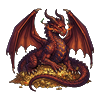
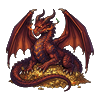
feat(art): monsters mirrored in the image files, not in CSS
- style.json kinds.monster.mirror → postprocess flips the keyed sprite; all 8 base monsters reprocessed
- the Monad mascots flipped once as well so both themes face the hero
- CSS scaleX(-1) on the tile, hover and battle arena removed

diff --git a/fe/src/components/game/BattleReportModal.vue b/fe/src/components/game/BattleReportModal.vue
@@ -1731,15 +1731,9 @@ const potentialRewardTip = computed(() => {
   filter: brightness(1.15) drop-shadow(0 2px 8px rgba(200, 180, 160, 0.4));
 }
 
-/* the monster faces the hero: mirror the whole wrap so the sprite animations keep their own transforms */
-.monster-side .combatant-sprite-wrap {
-  transform: scaleX(-1);
-}
-
 .monster-emoji-large {
   font-size: 5rem;
   position: relative;
-  transform: scaleX(-1); /* undo the wrap mirror for text */
 }
 
 /* Character entrance animations */

diff --git a/fe/src/styles/components/tiles.css b/fe/src/styles/components/tiles.css
@@ -64,7 +64,7 @@
 }
 
 .tile-items:hover .monster-image {
-  transform: scale(-1.1, 1.1); /* keep the mirror (monsters face left) while growing */
+  transform: scale(1.1);
 }
 
 .tile-items.has-guard .monster-hp {

diff --git a/fe/src/components/game/GameTile.vue b/fe/src/components/game/GameTile.vue
@@ -897,7 +897,6 @@ const onItemClick = () => {
   width: 32px;
   height: 32px;
   object-fit: contain;
-  transform: scaleX(-1); /* monsters face the hero, who enters from the left */
 }
 
 .monster-emoji {

diff --git a/tools/art/pipeline.py b/tools/art/pipeline.py
@@ -96,7 +96,7 @@ def run(style: Style, assets: list[Asset], client: ImageClient | None, only: set
             image, post = postprocess.process_background(raw, settings.width, settings.height)
             postprocess.save_background(image, asset.out, settings.quality or 85)
         else:
-            image, post = postprocess.process_sprite(raw, settings.width, settings.height)
+            image, post = postprocess.process_sprite(raw, settings.width, settings.height, settings.mirror)
             postprocess.save_sprite(image, asset.out)
         LOG.info("done %s in %.1fs → %s %dx%d", asset.id, info["duration_s"], rel(asset.out), *image.size)
         recent.setdefault(asset.kind, []).append(asset.out)
@@ -136,7 +136,7 @@ def reprocess(style: Style, assets: list[Asset], only: set[str] | None) -> int:
             image, post = postprocess.process_background(raw, settings.width, settings.height)
             postprocess.save_background(image, asset.out, settings.quality or 85)
         else:
-            image, post = postprocess.process_sprite(raw, settings.width, settings.height)
+            image, post = postprocess.process_sprite(raw, settings.width, settings.height, settings.mirror)
             postprocess.save_sprite(image, asset.out)
         entry["post"] = post
         entry["reprocessed_at"] = datetime.now(timezone.utc).isoformat(timespec="seconds")

diff --git a/tools/art/postprocess.py b/tools/art/postprocess.py
@@ -148,14 +148,17 @@ def trim_and_fit(img: Image.Image, width: int, height: int, padding: float = 0.0
     return fitted, info
 
 
-def process_sprite(raw: bytes, width: int, height: int) -> tuple[Image.Image, dict]:
+def process_sprite(raw: bytes, width: int, height: int, mirror: bool = False) -> tuple[Image.Image, dict]:
     img = load(raw)
     keyed = remove_chroma_key(img)
     keyed, outline_pct = strip_outline(keyed)
+    if mirror:
+        keyed = keyed.transpose(Image.FLIP_LEFT_RIGHT)
     fitted, info = trim_and_fit(keyed, width, height)
     residue = green_residue_pct(fitted)
     info["green_residue_pct"] = round(residue, 2)
     info["outline_removed_pct"] = round(outline_pct, 2)
+    info["mirrored"] = mirror
     if residue > 0.5:
         LOG.warning("green residue %.2f%% of opaque pixels — consider regenerating", residue)
     corners = [fitted.getpixel((0, 0))[3], fitted.getpixel((width - 1, height - 1))[3]]

diff --git a/tools/art/manifest.py b/tools/art/manifest.py
@@ -29,6 +29,7 @@ class KindSettings:
     image_size: str = "1K"
     model: str | None = None
     quality: int | None = None  # webp quality for opaque outputs
+    mirror: bool = False  # flip horizontally after keying (monsters face the hero)
 
 
 @dataclass(frozen=True)
@@ -80,6 +81,7 @@ def load_style(path: Path = STYLE_FILE) -> Style:
         kinds[name] = KindSettings(
             width=int(cfg["width"]), height=int(cfg["height"]), aspect_ratio=cfg["aspect_ratio"],
             image_size=cfg.get("image_size", "1K"), model=cfg.get("model"), quality=cfg.get("quality"),
+            mirror=bool(cfg.get("mirror", False)),
         )
     for k in KINDS:
         if k not in kinds:

diff --git a/tools/art/style/STYLE.md b/tools/art/style/STYLE.md
@@ -29,7 +29,7 @@ Karak: a dark stone dungeon lit by wall torches, treasure chests full of gold, u
 
 - One subject, centred, ~6 % padding after cropping; silhouette must read at 32 px.
 - Generated on flat chroma-key green `#00FF00` with a 2–3 px white outline; the tool removes the green and snaps alpha to 0/255. The subject must not contain pure green.
-- Monsters: 100×100, 3/4 front view, menacing. Heroes: 100×150, full body, standing.
+- Monsters: 100×100, 3/4 front view, menacing; the file is mirrored in post so monsters face left, towards the hero (`kinds.monster.mirror`). Heroes: 100×150, full body, standing.
 - No scene, no floor, no cast shadow on the background, no text.
 
 ## Consistency mechanics
